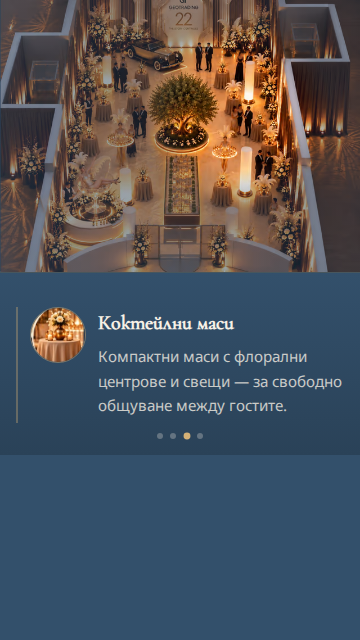
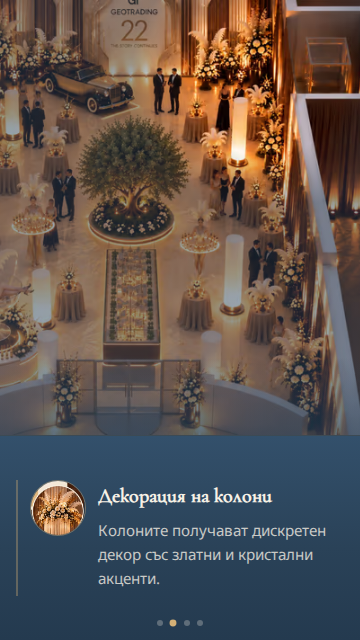
Fix mobile cocktail stage: 68svh cover crop and full-height caption dock
Replace contain layout that left ~45% dead navy with a 62-68svh cover
image band and a flex-growing dock that fills the rest of the sticky
stage. Per-beat object-position uses focus metadata; intro stays at
50% 38% for a recognizable reception wide shot. Center caption content
in the dock with dots pinned to the bottom.

Extend Playwright captures to 390, 360, 412, and 375 viewports.

diff --git a/src/styles/scenes.css b/src/styles/scenes.css
@@ -192,6 +192,8 @@
     display: flex;
     flex-direction: column;
     background: var(--color-navy-mid);
+    min-height: 100svh;
+    min-height: 100dvh;
   }
 
   .sticky-story__layout--mobile {
@@ -200,37 +202,76 @@
     flex: 1;
     min-height: 0;
     height: 100%;
+    width: 100%;
   }
 
+  /* Moderate portrait-ish cover band (~4:5 feel at typical phone widths) */
   .sticky-story__mobile-image {
     position: relative;
-    flex: 0 0 auto;
+    flex: 0 0 clamp(62svh, 68svh, 68svh);
+    height: clamp(62svh, 68svh, 68svh);
     width: 100%;
-    line-height: 0;
     background: var(--color-navy-soft);
     overflow: hidden;
   }
 
+  .sticky-story__mobile-image::after {
+    content: '';
+    position: absolute;
+    left: 0;
+    right: 0;
+    bottom: 0;
+    height: 18%;
+    background: linear-gradient(180deg, transparent 0%, rgba(37, 59, 80, 0.45) 100%);
+    pointer-events: none;
+    z-index: 2;
+  }
+
+  /* Fills all remaining viewport — no dead navy below the dock */
   .sticky-story__mobile-dock {
+    flex: 1 1 auto;
+    min-height: 0;
+    display: flex;
+    flex-direction: column;
+    justify-content: flex-start;
+    gap: 0.5rem;
+    padding: 0.75rem 1rem calc(0.7rem + env(safe-area-inset-bottom, 0px));
+    background: linear-gradient(180deg, var(--color-navy-mid) 0%, #2a4258 55%, #243a4f 100%);
+    border-top: 1px solid rgba(212, 176, 118, 0.14);
+  }
+
+  .sticky-story__mobile-dock .mobile-caption__body {
+    flex: 1 1 auto;
+    display: flex;
+    flex-direction: column;
+    justify-content: center;
+    min-height: 0;
+  }
+
+  .sticky-story__mobile-dock .sticky-story__dots {
     flex: 0 0 auto;
-    padding: 0.85rem 1rem calc(0.85rem + env(safe-area-inset-bottom, 0px));
-    background: linear-gradient(180deg, var(--color-navy-mid) 0%, #2a4258 100%);
-    border-top: 1px solid rgba(212, 176, 118, 0.18);
+    margin-top: auto;
+    padding-top: 0.25rem;
   }
 
   .sticky-story__mobile-image .sticky-story__master-picture {
+    position: absolute;
+    inset: 0;
     width: 100%;
-    height: auto;
+    height: 100%;
     display: block;
   }
 
   .sticky-story__mobile-image .sticky-story__master-picture img {
     width: 100%;
-    height: auto;
-    max-height: min(56svh, 56dvh);
-    object-fit: contain !important;
-    object-position: center top;
+    height: 100%;
+    object-fit: cover !important;
+    object-position: var(--mobile-focus-x, 50%) var(--mobile-focus-y, 42%);
     display: block;
+  }
+
+  .sticky-story__mobile-image .sticky-story__fx {
+    z-index: 1;
   }
 }
 

diff --git a/src/scenes/StickyStoryScene.tsx b/src/scenes/StickyStoryScene.tsx
@@ -182,11 +182,12 @@ export function StickyStoryScene({ data, treatment, scrollHint }: Props) {
     return () => window.clearTimeout(t);
   }, [activeBeat, captionBeat, mobileAnimate]);
 
+  const mobileFocusY =
+    activeBeat < 0 ? 38 : Math.round(Math.min(88, focus.fy * 92 + 4));
+
   const masterObjectPosition = isDesktop
     ? undefined
-    : activeBeat < 0
-      ? 'center top'
-      : `${Math.round(focus.fx * 100)}% top`;
+    : `${Math.round(activeBeat < 0 ? 50 : focus.fx * 100)}% ${mobileFocusY}%`;
 
   const fxOverlay = (
     <div
@@ -248,7 +249,7 @@ export function StickyStoryScene({ data, treatment, scrollHint }: Props) {
                     <ResponsivePicture
                       className="sticky-story__master-picture"
                       assetId={data.masterAssetId}
-                      objectFit="contain"
+                      objectFit="cover"
                       objectPosition={masterObjectPosition}
                     />
                     {fxOverlay}
